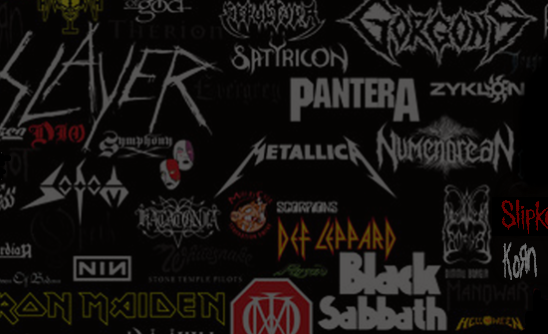
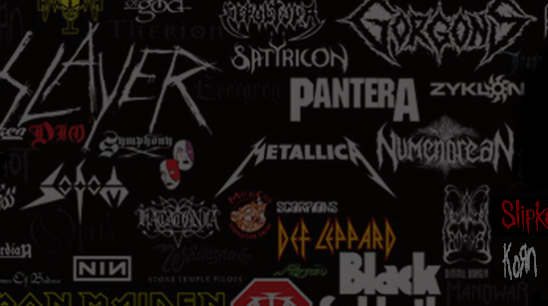
carousel

diff --git a/index.html b/index.html
@@ -70,13 +70,10 @@
         <div id="carouselExampleControls" class="carousel slide" data-ride="carousel">
           <div class="carousel-inner">
             <div class="carousel-item active">
-              <img class="d-block w-100" src="imgs/banner.png" alt="Primeiro Slide">
+              <img class="d-block w-100" src="imgs/carr1.png" alt="Primeiro Slide">
             </div>
             <div class="carousel-item">
-              <img class="d-block w-100" src="imgs/banner.png" alt="Segundo Slide">
-            </div>
-            <div class="carousel-item">
-              <img class="d-block w-100" src="imgs/banner.png" alt="Terceiro Slide">
+              <img class="d-block w-100" src="imgs/carr2.png" alt="Segundo Slide">
             </div>
           </div>
           <a class="carousel-control-prev" href="#carouselExampleControls" role="button" data-slide="prev">
